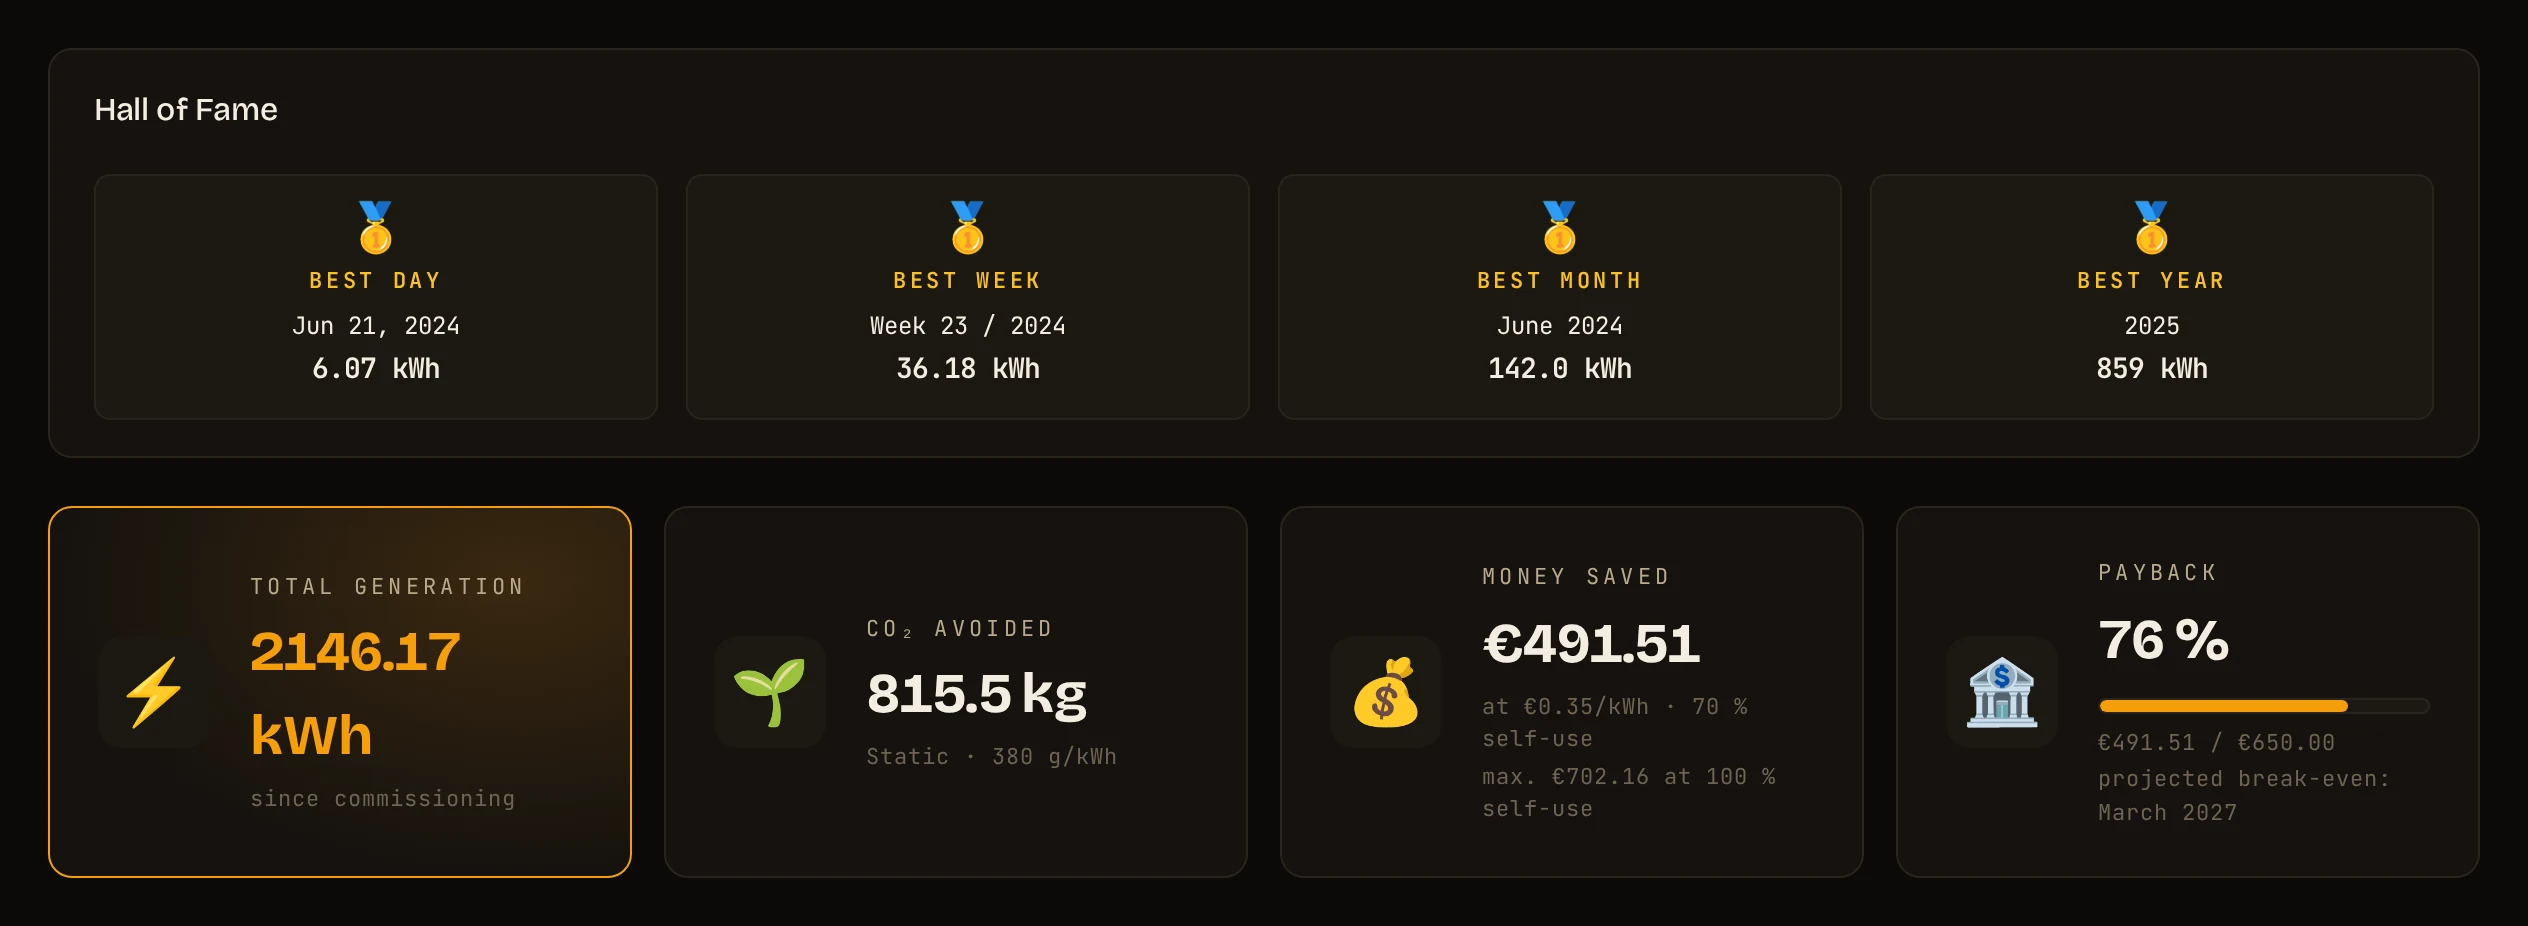
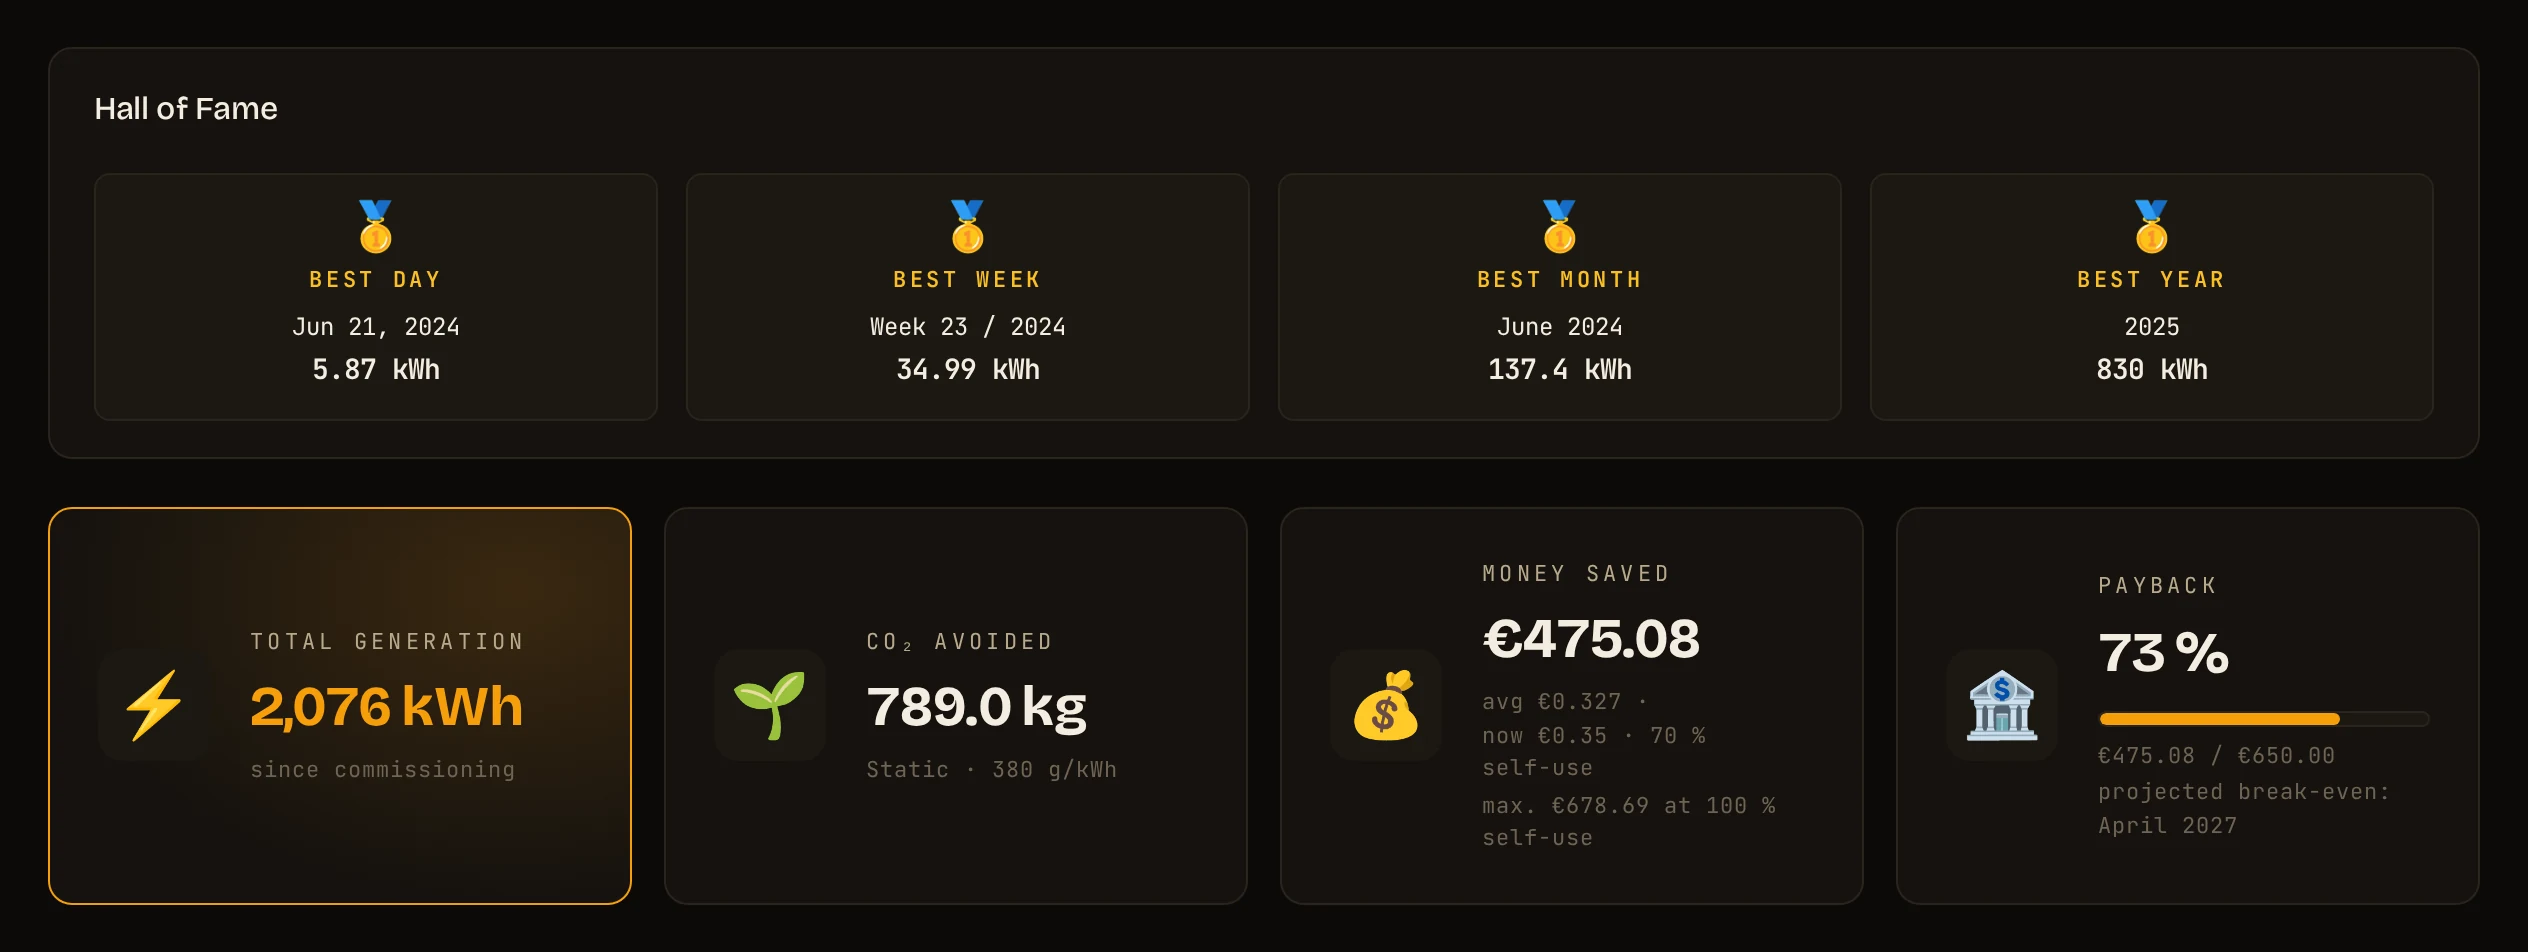
docs: v1.12.0 notes, tariff change guide, new screenshots

diff --git a/tools/screenshots/shoot.py b/tools/screenshots/shoot.py
@@ -20,9 +20,11 @@ from playwright.sync_api import sync_playwright
 BASE = sys.argv[1] if len(sys.argv) > 1 else "http://app:8080"
 OUT = Path(sys.argv[2] if len(sys.argv) > 2 else "/out")
 
-DESKTOP = {"width": 1360, "height": 900}
+# Tall enough for the whole dashboard shot: the page's background glow is fixed
+# to the viewport, and a shot reaching past it would show its edge.
+DESKTOP = {"width": 1360, "height": 1280}
 # Phone width, but tall enough to show the hero card and today's full curve.
-PHONE = {"width": 390, "height": 1120}
+PHONE = {"width": 390, "height": 1166}
 
 
 def backend_now() -> datetime:

diff --git a/README.md b/README.md
@@ -46,10 +46,12 @@ to live grid CO₂ data.
   <img align="right" width="220" src="docs/screenshots/mobile-light.webp" alt="EZ1 Monitor on a phone">
 </picture>
 
-- ⚡ **Live view.** Total and per-input power, today's peak with its time
-  and the average while producing — refreshed every 10 s while the sun is up.
-- 📈 **Every day, browsable.** Today's curve plus a day picker for every
+- ⚡ **Live view.** Total and per-input power, refreshed every 10 s while the
+  sun is up and right away when you come back to the tab.
+- 📈 **Every day, browsable.** The day's curve plus a day picker for every
   recorded day in the retention window — or jump there from a history bar.
+- 🌤 **Shading at a glance.** Peak, average and yield per panel and in total
+  for the selected day, with each panel as its own line in the curve.
 - ⚖ **Fair comparisons.** Today vs. yesterday until the same clock time;
   week, month and year vs. the same point of the previous period, plus
   year-over-year.
@@ -64,8 +66,9 @@ to live grid CO₂ data.
   break-even month.
 - 🌱 **CO₂ avoided.** Static factor or live grid intensity from
   Electricity Maps, stamped onto every reading.
-- 🚦 **Smart status.** Tells dusk from a real outage — no false alarms at
-  night — and polls 10× slower while the inverter sleeps.
+- 🚦 **Smart status.** Tells dusk from a real outage and shrugs off a single
+  dropped poll — no false alarms — and polls 10× slower while the inverter
+  sleeps.
 - 📊 **Prometheus `/metrics`** for Grafana, Home Assistant & co.
 - 📱 **PWA, themes, two languages.** Installable on iOS and Android, light
   and dark theme, English and German.
@@ -209,7 +212,7 @@ All configuration is done via environment variables.
 | `TZ` | `Etc/UTC` | IANA timezone (e.g. `Europe/Berlin`) — where days, weeks and months begin |
 | `INVERTER_PORT` | `8050` | Port of the inverter's local API |
 | `POLL_INTERVAL` | `60` | Seconds between polls; 10× slower (max. 5 min) while the inverter is offline |
-| `PRICE_PER_KWH` | `0.35` | Your electricity price per kWh, stamped on every reading — update it when your tariff changes |
+| `PRICE_PER_KWH` | `0.35` | Your electricity price per kWh, stamped on every reading — update it when your [tariff changes](#changing-your-tariff) |
 | `CURRENCY` | `EUR` | ISO 4217 code for money formatting (`EUR`, `USD`, `CHF`, …) |
 | `SELF_CONSUMPTION_PCT` | `100` | Share (%) of production you use yourself; only affects money and payback |
 | `FEED_IN_TARIFF` | `0` | Compensation per fed-in kWh, same currency (often `0` for balcony plants) |
@@ -240,24 +243,38 @@ All configuration is done via environment variables.
 Standby vs. error is decided by how production looked when the inverter
 went quiet: an average below ~5 W over its last five minutes online is a
 graceful wind-down, anything above is an outage — and stays red until the
-inverter answers again.
+inverter answers again. A single dropped poll is neither: the inverter only
+counts as offline after three failed polls in a row.
 
 ## Savings, payback & CO₂
 
 **Money saved** values every kWh at the price stamped on its reading.
-Without a battery you won't use all of it yourself: `SELF_CONSUMPTION_PCT`
-scales the savings to the share you consume, the fed-in rest earns
-`FEED_IN_TARIFF`. With a share below 100 %, the card shows the realistic
-figure and, below it, the ceiling at full self-consumption.
+Production without a stamp, from before the monitor was set up, counts at
+the oldest stamped price. Without a battery you won't use all of it yourself:
+`SELF_CONSUMPTION_PCT` scales the savings to the share you consume, the
+fed-in rest earns `FEED_IN_TARIFF`. With a share below 100 %, the card shows
+the realistic figure and, below it, the ceiling at full self-consumption.
 
 **Payback** (with `INSTALL_COST` set) shows how much of the installation
 has been earned back and highlights the break-even. Once a full year of
 data exists — shorter histories are skewed by the season — it also
-projects the month the installation will have paid for itself.
+projects the month the installation will have paid for itself, from your
+average production so far at the current tariff.
 
 **CO₂ avoided** uses the static `CO2_KG_PER_KWH` by default. That is a
 yearly average and tends to overstate it, because solar panels produce
 precisely when the grid is cleanest.
+
+### Changing your tariff
+
+Update `PRICE_PER_KWH` and recreate the container, ideally the evening before
+the switch: nothing is produced overnight, so every kWh ends up at the right
+price. What has already been produced keeps its value. From then on the money
+card shows both prices ("avg €0.334 · now €0.28"), and the payback projection
+uses the new one.
+
+`SELF_CONSUMPTION_PCT` and `FEED_IN_TARIFF` work differently: they apply to
+the whole history, so changing them moves the money card right away.
 
 ### Live grid intensity (Electricity Maps)
 
@@ -300,10 +317,10 @@ unauthenticated — meant for the LAN.
 
 | Endpoint | Description |
 |---|---|
-| `GET /health` | Container health check |
+| `GET /health` | Health check: `503` if the poller has stalled, never because the inverter sleeps |
 | `GET /api/live` | Latest measurement + device info + status + runtime config |
 | `GET /api/history?range=day\|week\|month\|year` | Historical data points |
-| `GET /api/history?range=day&date=YYYY-MM-DD` | A specific day's intraday curve |
+| `GET /api/history?range=day&date=YYYY-MM-DD` | A specific day's intraday curve and per-panel figures |
 | `GET /api/history?range=year&granularity=monthly\|weekly` | Year view aggregated by month or ISO week |
 | `GET /api/history?range=week&week=YYYY-Www` | A specific ISO week (daily bars + summary) |
 | `GET /api/history?range=month&month=YYYY-MM` | A specific month (daily bars + summary) |

diff --git a/UPGRADING.md b/UPGRADING.md
@@ -30,6 +30,50 @@ are idempotent. Only these releases do anything noticeable on first start:
 
 The rest of this file is the release history, newest first.
 
+## From v1.11.3 to v1.12.0
+
+No manual steps, no database migration.
+
+- **Peak and average moved to the day curve, and now come per panel.** The
+  curve's card shows peak (with its time), average and yield for PV 1, PV 2
+  and in total, for whichever day is selected, and draws each panel as a thin
+  line of its own, so shading stands out. The table's first column is the
+  legend: click an entry to hide or show that line (remembered per browser).
+- **The power bar's labels are visible.** The share of the AC limit and the
+  limit itself, below the bar in the live power card, had been cut off by a
+  layout bug since the first release.
+- **A tariff change no longer moves what's already produced.** The part of
+  the lifetime counter without a stamped price, usually production from before
+  the monitor was set up, followed `PRICE_PER_KWH`, so the money and payback
+  cards jumped when the tariff changed. It now stays at the oldest stamped
+  price. If you have changed your tariff in the past, the figure settles once
+  when you upgrade. After a change, the money card shows both prices
+  ("avg €0.334 · now €0.28"). See
+  [Changing your tariff](README.md#changing-your-tariff).
+- **The projected break-even uses the current tariff.** It extrapolates your
+  average production at what a kWh is worth today, instead of the average of
+  everything saved so far, which kept promising the old price after a change.
+- **One dropped poll is no outage.** A single failed request used to write an
+  offline marker, which turned the status red and paused polling for up to
+  five minutes. The inverter now counts as offline after three failed polls in
+  a row, and until then polling continues at the normal interval. As a side
+  effect, the status changes to standby at dusk two polls later than before
+  (two minutes at the default interval).
+- **Numbers follow the UI language**, including chart axes and tooltips:
+  1.234,56 in German, 1,234.56 in English. Energy drops its decimals from
+  1000 kWh on, and the lifetime cards move to two columns in windows narrower
+  than 1240 px, so their values no longer wrap.
+- **Fresh data when you come back.** Returning to the tab refreshes everything
+  right away, instead of showing old values until the next slow tick.
+- **`/health` reports the poller.** It now answers `503` when the poll loop has
+  died or stopped completing its cycles, and it used to always say OK. An
+  inverter asleep at night never fails it. Docker marks a stuck container as
+  unhealthy; a Kubernetes liveness probe restarts it.
+- **API changes.** `/api/stats` no longer has `peak_today_ts` and
+  `avg_w_during_production`; those figures are now in the `figures` object of
+  `/api/history?range=day`, per panel and for any day. `/api/stats` gains
+  `avg_price_per_kwh`. `peak_w_today` and the Prometheus metrics are unchanged.
+
 ## From v1.11.2 to v1.11.3
 
 No manual steps, no database migration — a bug-fix release.
